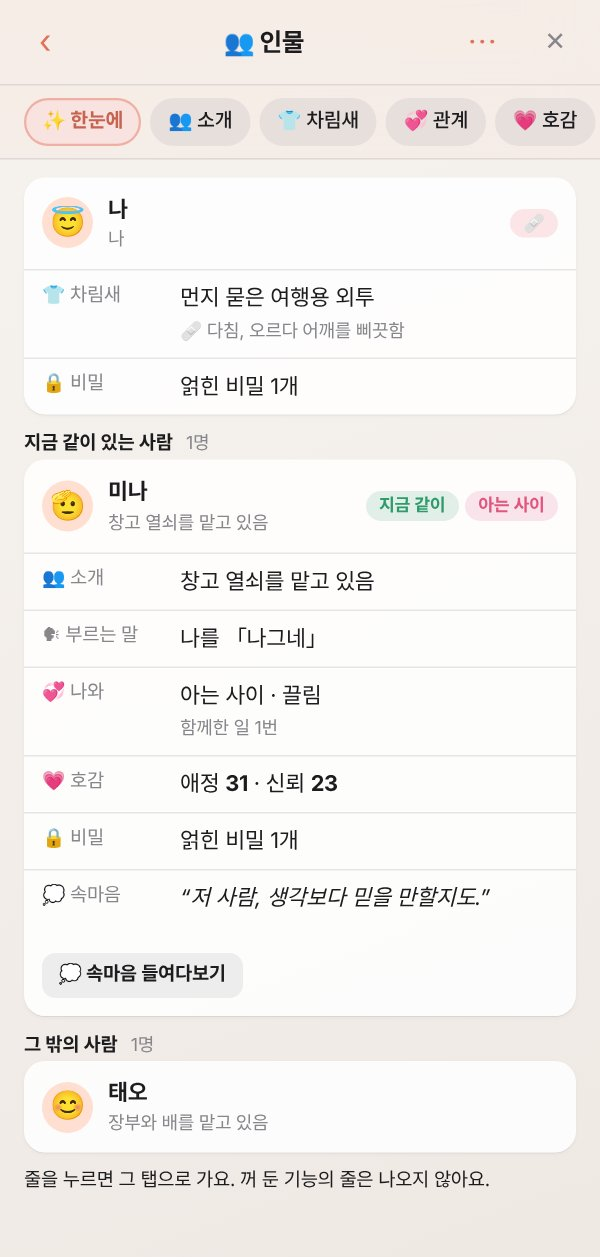
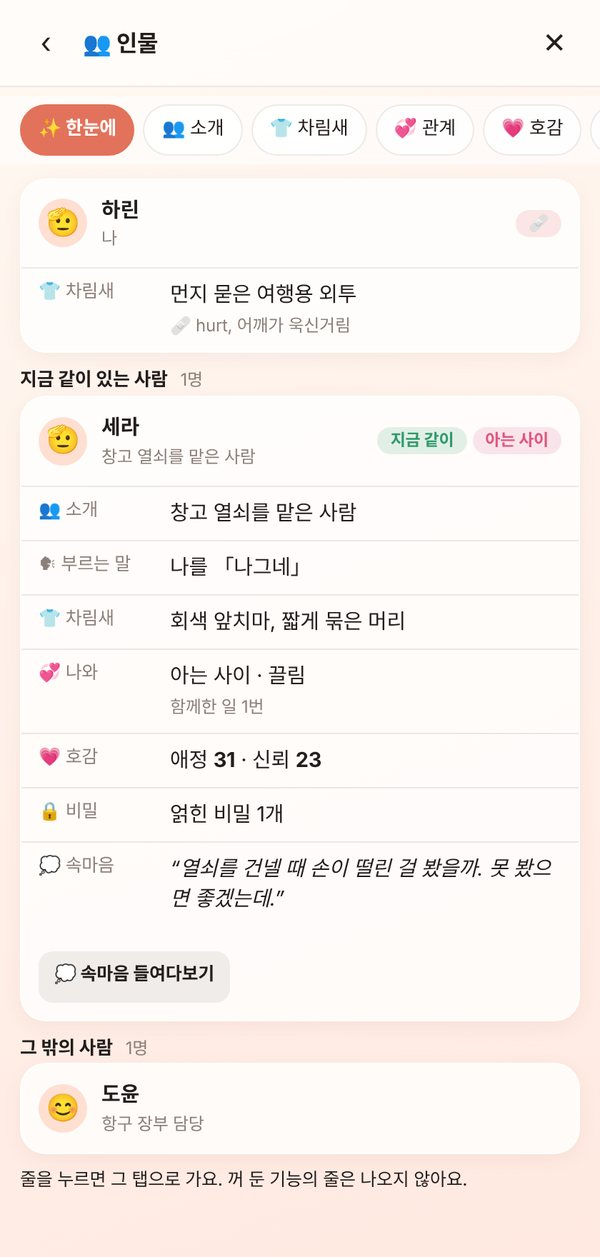
되돌림: CSS 정리 · README 캡처 다시 찍은 것
Claude-Session: https://claude.ai/code/session_01GwsfwdMgNNbz4buD2Lfpie

diff --git a/phone.css b/phone.css
@@ -1,13 +1,14 @@
 /* Meatball — the phone. Fetched the first time it is opened. Every selector starts with .mb4-. */
 .mb4-phone {
-      --a: #e2725b; --a-soft: rgba(226, 114, 91, .14);
+    --bg1: #fff8f1; --bg2: #ffe9e1; --card: rgba(255, 255, 255, .78); --line: rgba(70, 45, 35, .1);
+    --fg: #231d1b; --sub: #8c7f79; --a: #e2725b; --a-soft: rgba(226, 114, 91, .14);
     --good: #2f9a6a; --bad: #e5484d; --mid: #d98a1f; --love: #e0567f;
     display: none; position: fixed; z-index: 4000; top: 0; bottom: 0; right: 0; width: 420px; max-width: 100vw;
     flex-direction: column; overflow: hidden;
     color: var(--fg); background: linear-gradient(160deg, var(--bg1) 0%, var(--bg2) 100%);
     border-left: 1px solid var(--line); box-shadow: -10px 0 40px rgba(0, 0, 0, .22);
     font-family: -apple-system, 'Apple SD Gothic Neo', 'Pretendard', 'Noto Sans KR', 'Malgun Gothic', system-ui, sans-serif;
-     line-height: 1.5;  text-align: left;
+    font-size: 14.5px; line-height: 1.5; letter-spacing: -.01em; text-align: left;
 }
 .mb4-phone.mb4-left { right: auto; left: 0; border-left: 0; border-right: 1px solid var(--line); box-shadow: 10px 0 40px rgba(0, 0, 0, .22); }
 .mb4-phone.mb4-open { display: flex; }
@@ -19,23 +20,23 @@
 .mb4-phone h3, .mb4-phone h5, .mb4-phone p { margin: 0; color: inherit; }
 
 /* top bar: a status bar at home, a title bar inside an app */
-.mb4-top { display: flex; align-items: center; gap: 4px; flex: none; }
-.mb4-title { flex: 1;   overflow-wrap: anywhere; }
-.mb4-phone:not(.mb4-at-home) .mb4-top { background: rgba(255, 255, 255, .6);  backdrop-filter: blur(10px); }
+.mb4-top { display: flex; align-items: center; gap: 4px; flex: none; padding: 8px 10px; min-height: 52px; }
+.mb4-title { flex: 1; font-weight: 700; font-size: 16px; overflow-wrap: anywhere; }
+.mb4-phone:not(.mb4-at-home) .mb4-top { background: rgba(255, 255, 255, .6); border-bottom: 1px solid var(--line); backdrop-filter: blur(10px); }
 .mb4-at-home [data-back] { display: none; }
 .mb4-at-home .mb4-title { padding-left: 8px; font-size: 14px; }
 .mb4-status { display: none; align-items: center; gap: 6px; margin-right: 4px; }
 .mb4-at-home .mb4-status { display: inline-flex; }
 .mb4-sig { width: 16px; height: 10px; background: linear-gradient(90deg, var(--fg) 0 3px, transparent 3px 4px, var(--fg) 4px 7px, transparent 7px 8px, var(--fg) 8px 11px, transparent 11px 12px, var(--fg) 12px 15px, transparent 15px); -webkit-mask: linear-gradient(to top right, #000 50%, transparent 50%); mask: linear-gradient(to top right, #000 50%, transparent 50%); }
 .mb4-batt { width: 22px; height: 11px; border: 1.5px solid var(--fg); border-radius: 3.5px; background: linear-gradient(90deg, var(--fg) 78%, transparent 78%) content-box; padding: 1px; }
-.mb4-ico { width: 38px; height: 38px; flex: none; border: 0; border-radius: 50%; background: transparent;  line-height: 1; display: grid; place-items: center; }
-
-.mb4-body { flex: 1; overflow-y: auto;  overscroll-behavior: contain; -webkit-overflow-scrolling: touch; scrollbar-width: thin; }
+.mb4-ico { width: 38px; height: 38px; flex: none; border: 0; border-radius: 50%; background: transparent; font-size: 20px; line-height: 1; display: grid; place-items: center; }
+.mb4-ico:hover, .mb4-ico:focus-visible { background: rgba(70, 45, 35, .08); }
+.mb4-body { flex: 1; overflow-y: auto; padding: 6px 14px 22px; overscroll-behavior: contain; -webkit-overflow-scrolling: touch; scrollbar-width: thin; }
 
 /* cards */
-.mb4-card { display: block; margin: 0 0 12px;  border-radius: 18px; background: var(--card); border: 1px solid rgba(255, 255, 255, .7); box-shadow: 0 1px 2px rgba(120, 70, 50, .06), 0 6px 18px rgba(120, 70, 50, .06); overflow-wrap: anywhere; }
+.mb4-card { display: block; margin: 0 0 12px; padding: 13px 14px; border-radius: 18px; background: var(--card); border: 1px solid rgba(255, 255, 255, .7); box-shadow: 0 1px 2px rgba(120, 70, 50, .06), 0 6px 18px rgba(120, 70, 50, .06); overflow-wrap: anywhere; }
 .mb4-card.warn { background: rgba(255, 238, 205, .9); }
-.mb4-card-h { display: flex; align-items: center; gap: 6px; }
+.mb4-card-h { display: flex; align-items: center; gap: 6px; margin: 0 0 8px; font-size: 12.5px; font-weight: 700; color: var(--sub); }
 .mb4-chev { margin-left: auto; font-size: 17px; line-height: 1; color: var(--sub); }
 .mb4-widget, [data-go].mb4-hero { cursor: pointer; }
 .mb4-widget:hover { box-shadow: 0 1px 2px rgba(120, 70, 50, .08), 0 8px 22px rgba(120, 70, 50, .12); }
@@ -44,11 +45,11 @@ details.mb4-card > summary::after { content: '›'; margin-left: auto; color: va
 details.mb4-card[open] > summary::after { transform: rotate(90deg); }
 details.mb4-card[open] > summary { margin-bottom: 10px; }
 details.mb4-card > summary::-webkit-details-marker { display: none; }
-
+.mb4-sec { margin: 18px 4px 8px; font-size: 13px; font-weight: 700; }
 .mb4-sec small { margin-left: 6px; }
 .mb4-lead { margin: 0 2px 10px; color: var(--sub); font-size: 13px; }
 .mb4-hint { margin: 8px 2px 0; font-size: 12.5px; color: var(--sub); overflow-wrap: anywhere; }
-.mb4-banner { margin: 0 0 12px; padding: 10px 14px;  background: rgba(255, 224, 170, .8); font-size: 13px; }
+.mb4-banner { margin: 0 0 12px; padding: 10px 14px; border-radius: 14px; background: rgba(255, 224, 170, .8); font-size: 13px; }
 .mb4-banner.soft { background: rgba(255, 255, 255, .55); color: var(--sub); }
 .mb4-big { font-size: 17px; font-weight: 700; }
 .mb4-center { text-align: center; }
@@ -59,9 +60,9 @@ details.mb4-card > summary::-webkit-details-marker { display: none; }
 .mb4-catch b { font-size: 15px; }
 
 /* hero */
-.mb4-hero { margin: 0 0 12px; padding: 18px 16px; }
+.mb4-hero { margin: 0 0 12px; padding: 18px 16px; border-radius: 22px; background: rgba(255, 255, 255, .62); border: 1px solid rgba(255, 255, 255, .8); box-shadow: 0 8px 26px rgba(120, 70, 50, .08); }
 .mb4-hero > small { display: block; }
-.mb4-hero-n { font-size: 38px;  line-height: 1.15; letter-spacing: -.03em; }
+.mb4-hero-n { font-size: 38px; font-weight: 300; line-height: 1.15; letter-spacing: -.03em; }
 .mb4-hero-n small { font-size: 15px; }
 .mb4-hero-s { margin-top: 2px; font-weight: 700; font-size: 14px; }
 .mb4-hero-m { margin-top: 6px; color: var(--sub); font-size: 13px; display: flex; flex-wrap: wrap; gap: 4px 8px; }
@@ -72,7 +73,7 @@ details.mb4-card > summary::-webkit-details-marker { display: none; }
 .mb4-grid { display: grid; grid-template-columns: repeat(4, 1fr); gap: 14px 4px; margin: 4px 0 8px; }
 .mb4-tile { display: flex; flex-direction: column; align-items: center; gap: 6px; padding: 2px 0; border: 0; background: transparent; }
 .mb4-tile-name { font-size: 12px; text-align: center; overflow-wrap: anywhere; }
-.mb4-app-ico { display: grid; place-items: center; flex: none; width: 56px; height: 56px; border-radius: 17px; font-size: 27px; background: linear-gradient(150deg, color-mix(in srgb, var(--c) 78%, #fff), var(--c)); }
+.mb4-app-ico { display: grid; place-items: center; flex: none; width: 56px; height: 56px; border-radius: 17px; font-size: 27px; background: linear-gradient(150deg, color-mix(in srgb, var(--c) 78%, #fff), var(--c)); box-shadow: 0 4px 10px color-mix(in srgb, var(--c) 35%, transparent); }
 .mb4-tile:active .mb4-app-ico { transform: scale(.94); }
 
 /* first question */
@@ -101,31 +102,31 @@ details.mb4-card > summary::-webkit-details-marker { display: none; }
 .mb4-item-t { flex: 1; min-width: 0; }
 .mb4-item-t b { font-size: 15px; margin-right: 6px; }
 .mb4-item-t small { display: block; margin-top: 2px; line-height: 1.4; }
-.mb4-get { flex: none; min-width: 58px !important; padding: 6px 12px; border: 0; border-radius: 999px;   font-weight: 700 !important; font-size: 13px !important; }
-
+.mb4-get { flex: none; min-width: 58px !important; padding: 6px 12px; border: 0; border-radius: 999px; background: var(--a); color: #fff !important; font-weight: 700 !important; font-size: 13px !important; }
+.mb4-get.on { background: rgba(70, 45, 35, .09); color: var(--sub) !important; }
 .mb4-get:disabled { opacity: .5; }
-.mb4-badge { display: inline-block; padding: 1px 7px; margin-right: 4px; border-radius: 999px; font-size: 10.5px;   color: var(--sub); white-space: nowrap; vertical-align: 1px; }
+.mb4-badge { display: inline-block; padding: 1px 7px; margin-right: 4px; border-radius: 999px; font-size: 10.5px; font-weight: 700; background: rgba(70, 45, 35, .08); color: var(--sub); white-space: nowrap; vertical-align: 1px; }
 .mb4-badge.zero { background: rgba(47, 154, 106, .15); color: #1f7a52; }
 .mb4-badge.low { background: rgba(58, 142, 230, .14); color: #2468b4; }
 .mb4-badge.tap { background: rgba(124, 92, 255, .14); color: #5a3fd0; }
 
 /* controls */
-.mb4-btn { border: 0;     flex: none; }
+.mb4-btn { min-height: 38px; padding: 7px 15px; border: 0; border-radius: 12px; background: var(--a); color: #fff !important; font-weight: 700 !important; flex: none; }
 .mb4-btn:disabled { opacity: .4; cursor: default; }
-
-.mb4-btn.sm { font-size: 12.5px !important; }
-.mb4-btn.wide { display: block; width: 100%; margin: 0 0 8px; }
+.mb4-btn.ghost { background: rgba(70, 45, 35, .08); color: var(--fg) !important; }
+.mb4-btn.sm { min-height: 30px; padding: 4px 11px; font-size: 12.5px !important; border-radius: 10px; }
+.mb4-btn.wide { display: block; width: 100%; margin: 0 0 8px; min-height: 44px; border-radius: 14px; }
 .mb4-btnrow { display: flex; flex-wrap: wrap; align-items: center; gap: 8px; margin-top: 10px; }
 .mb4-btnrow.tight { margin-top: 0; gap: 4px; }
 .mb4-btnrow > .mb4-input { flex: 1; margin: 0; min-width: 0; }
-.mb4-link { border: 0; background: none; padding: 0; text-align: left; flex: 1; }
-.mb4-x { flex: none; width: 22px; height: 22px; padding: 0; margin-left: 4px; border: 0; border-radius: 50%;  font-size: 10px !important; line-height: 1; color: var(--sub) !important; }
+.mb4-link { border: 0; background: none; padding: 0; text-align: left; flex: 1; color: var(--a) !important; }
+.mb4-x { flex: none; width: 22px; height: 22px; padding: 0; margin-left: 4px; border: 0; border-radius: 50%; background: rgba(70, 45, 35, .08); font-size: 10px !important; line-height: 1; color: var(--sub) !important; }
 .mb4-label { display: block; font-size: 12.5px; font-weight: 700; color: var(--sub); margin-bottom: 10px; }
 .mb4-input { display: block; width: 100%; margin: 5px 0 0; padding: 9px 11px; border-radius: 11px; border: 1px solid var(--line); background: rgba(255, 255, 255, .85); color: var(--fg); font-weight: 400; outline: 0; box-shadow: none; }
 .mb4-input:focus { border-color: var(--a); }
 /* the host theme styles every input, select and textarea on the page: ours keep the phone's own look */
-.mb4-phone .mb4-input { box-shadow: none !important; font-size: 14.5px !important; }
-
+.mb4-phone .mb4-input { background: rgba(255, 255, 255, .85) !important; color: var(--fg) !important; border: 1px solid var(--line) !important; border-radius: 11px !important; box-shadow: none !important; font-size: 14.5px !important; }
+.mb4-phone .mb4-input:focus { border-color: var(--a) !important; }
 .mb4-phone .mb4-input::placeholder { color: var(--sub); opacity: .8; }
 .mb4-phone select.mb4-input { background-image: none !important; appearance: auto; }
 .mb4-input.mb4-short { flex: 0 0 76px; width: 76px; }
@@ -137,23 +138,23 @@ textarea.mb4-input { resize: vertical; min-height: 44px; }
 .mb4-sw > span { display: flex; flex-direction: column; min-width: 0; }
 .mb4-sw b { font-weight: 600; }
 .mb4-sw input { position: absolute; opacity: 0; pointer-events: none; }
-.mb4-sw i { flex: none; width: 44px; height: 26px; border-radius: 999px;  position: relative; transition: background .15s; }
+.mb4-sw i { flex: none; width: 44px; height: 26px; border-radius: 999px; background: rgba(70, 45, 35, .16); position: relative; transition: background .15s; }
 .mb4-sw i::after { content: ''; position: absolute; top: 3px; left: 3px; width: 20px; height: 20px; border-radius: 50%; background: #fff; box-shadow: 0 1px 3px rgba(0, 0, 0, .25); transition: transform .15s; }
-
+.mb4-sw input:checked + i { background: var(--good); }
 .mb4-sw input:checked + i::after { transform: translateX(18px); }
 .mb4-sw input:disabled + i { opacity: .4; }
 .mb4-pre { margin: 8px 0 0; padding: 10px; border-radius: 10px; background: rgba(70, 45, 35, .06); font: 12px/1.5 ui-monospace, Menlo, Consolas, monospace; white-space: pre-wrap; overflow-wrap: anywhere; max-height: 260px; overflow-y: auto; }
-.mb4-opt { border-radius: 999px;  font-size: 13px !important; }
+.mb4-opt { padding: 6px 12px; border: 1px solid var(--line); border-radius: 999px; background: rgba(255, 255, 255, .8); font-size: 13px !important; }
 .mb4-opt.on { background: var(--a); border-color: var(--a); color: #fff !important; font-weight: 700 !important; }
 
 /* small pieces */
-.mb4-row { display: flex; align-items: center; gap: 10px; }
+.mb4-row { display: flex; align-items: center; gap: 10px; padding: 5px 0; }
 .mb4-row + .mb4-row { border-top: 1px solid var(--line); }
 .mb4-row-k { flex: none; min-width: 4.8em; color: var(--sub); font-size: 13px; }
 .mb4-row-v { flex: 1; min-width: 0; overflow-wrap: anywhere; }
 .mb4-chips { display: flex; flex-wrap: wrap; gap: 6px; }
 .mb4-chip { display: inline-flex; align-items: center; padding: 3px 10px; border-radius: 999px; background: rgba(70, 45, 35, .07); font-size: 13px; overflow-wrap: anywhere; }
-.mb4-pill { display: inline-block; flex: none; padding: 1px 9px; border-radius: 999px; font-size: 11.5px;  background: var(--a-soft); color: var(--a); white-space: nowrap; }
+.mb4-pill { display: inline-block; flex: none; padding: 1px 9px; border-radius: 999px; font-size: 11.5px; font-weight: 700; background: var(--a-soft); color: var(--a); white-space: nowrap; }
 .mb4-pill.good { background: rgba(47, 154, 106, .14); color: var(--good); }
 .mb4-pill.bad { background: rgba(229, 72, 77, .13); color: var(--bad); }
 .mb4-meter { flex: 1; min-width: 40px; height: 7px; border-radius: 999px; background: rgba(70, 45, 35, .1); overflow: hidden; display: block; }
@@ -230,13 +231,13 @@ textarea.mb4-input { resize: vertical; min-height: 44px; }
 .mb4-hr { border: 0; border-top: 1px solid var(--line); margin: 8px 0; }
 
 /* ── 4.1: three shelves, entry rows, inner tabs, person cards ── */
-.mb4-shelves { gap: 6px;    background: rgba(255, 255, 255, .5); position: sticky;  z-index: 3; backdrop-filter: blur(8px); }
-.mb4-shelf { display: flex; align-items: center; justify-content: center; gap: 5px;  border: 0; border-radius: 12px; background: transparent; font-size: 14px !important; color: var(--sub) !important; }
+.mb4-shelves { display: grid; grid-template-columns: repeat(3, 1fr); gap: 6px; margin: 0 0 8px; padding: 4px; border-radius: 16px; background: rgba(255, 255, 255, .5); position: sticky; top: -6px; z-index: 3; backdrop-filter: blur(8px); }
+.mb4-shelf { display: flex; align-items: center; justify-content: center; gap: 5px; padding: 9px 4px; border: 0; border-radius: 12px; background: transparent; font-size: 14px !important; color: var(--sub) !important; }
 .mb4-shelf.on { background: #fff; color: var(--fg) !important; box-shadow: 0 2px 8px rgba(120, 70, 50, .12); }
-.mb4-shelf small { min-width: 18px; padding: 0 5px; border-radius: 999px;  font-size: 11px !important; line-height: 18px; }
+.mb4-shelf small { min-width: 18px; padding: 0 5px; border-radius: 999px; background: rgba(70, 45, 35, .1); font-size: 11px !important; line-height: 18px; }
 .mb4-shelf.on small { background: var(--a); color: #fff !important; }
 .mb4-ents { border-radius: 18px; background: var(--card); border: 1px solid rgba(255, 255, 255, .7); box-shadow: 0 6px 18px rgba(120, 70, 50, .06); margin: 0 0 12px; overflow: hidden; }
-.mb4-ent { display: flex; align-items: center; gap: 12px;  cursor: pointer; }
+.mb4-ent { display: flex; align-items: center; gap: 12px; padding: 11px 12px; cursor: pointer; }
 .mb4-ent + .mb4-ent { border-top: 1px solid var(--line); }
 .mb4-ent:active { background: rgba(0, 0, 0, .03); }
 .mb4-ent .mb4-app-ico { width: 44px; height: 44px; border-radius: 14px; font-size: 21px; }
@@ -250,13 +251,13 @@ textarea.mb4-input { resize: vertical; min-height: 44px; }
 .mb4-ent-parts i { font-style: normal; filter: grayscale(1); opacity: .3; }
 .mb4-ent-parts i.on { filter: none; opacity: 1; }
 .mb4-ent .mb4-chev { flex: none; color: var(--sub); }
-.mb4-load { display: flex; justify-content: space-between; gap: 8px; padding: 10px 14px; border-radius: 14px;  font-size: 12.5px; color: var(--sub); cursor: pointer; }
-.mb4-tabs { display: flex;  overflow-x: auto;   position: sticky;  z-index: 3; background: color-mix(in srgb, var(--card) 70%, transparent); backdrop-filter: blur(8px); scrollbar-width: none; }
+.mb4-load { display: flex; justify-content: space-between; gap: 8px; padding: 10px 14px; border-radius: 14px; background: rgba(255, 255, 255, .5); font-size: 12.5px; color: var(--sub); cursor: pointer; }
+.mb4-tabs { display: flex; gap: 6px; overflow-x: auto; margin: 0 -14px 10px; padding: 6px 14px; position: sticky; top: -6px; z-index: 3; background: color-mix(in srgb, var(--card) 70%, transparent); backdrop-filter: blur(8px); scrollbar-width: none; }
 .mb4-tabs::-webkit-scrollbar { display: none; }
-.mb4-tab { flex: none;   border-radius: 999px;  font-size: 13px !important; white-space: nowrap; }
+.mb4-tab { flex: none; padding: 7px 12px; border: 1px solid var(--line); border-radius: 999px; background: rgba(255, 255, 255, .8); font-size: 13px !important; white-space: nowrap; }
 .mb4-tab.on { background: var(--a); border-color: var(--a); color: #fff !important; font-weight: 700 !important; }
-.mb4-tab.off:not(.on) { border-style: dashed; }
-.mb4-tabfoot { display: flex; align-items: center; justify-content: flex-end; gap: 8px; margin: 14px 0 0; padding-top: 10px; }
+.mb4-tab.off:not(.on) { opacity: .5; border-style: dashed; }
+.mb4-tabfoot { display: flex; align-items: center; justify-content: flex-end; gap: 8px; margin: 14px 0 0; padding-top: 10px; border-top: 1px dashed var(--line); }
 .mb4-tabfoot .mb4-link { flex: none; color: var(--sub) !important; font-size: 12.5px !important; }
 .mb4-offcard { display: flex; flex-direction: column; align-items: center; gap: 8px; text-align: center; padding: 26px 18px; border-radius: 20px; background: var(--card); }
 .mb4-offcard .mb4-app-ico { filter: grayscale(.6); }
@@ -283,7 +284,7 @@ textarea.mb4-input { resize: vertical; min-height: 44px; }
 .mb4-pill.love { background: color-mix(in srgb, var(--love) 16%, #fff); color: var(--love) !important; }
 .mb4-sum small { color: var(--sub); }
 .mb4-sum-t { margin: 4px 0 10px; font-size: 16px; line-height: 1.5; font-weight: 600; }
-.mb4-tip { margin: 0 0 10px; padding: 9px 12px;   font-size: 12.5px; line-height: 1.45; color: var(--fg); }
+.mb4-tip { margin: 0 0 10px; padding: 9px 12px; border-radius: 12px; background: rgba(255, 236, 170, .45); font-size: 12.5px; line-height: 1.45; color: var(--fg); }
 
 /* 🎨 looks */
 .mb4-walls { display: grid; grid-template-columns: repeat(4, 1fr); gap: 8px; }
@@ -297,7 +298,7 @@ textarea.mb4-input { resize: vertical; min-height: 44px; }
 .mb4-sticky span { flex: 1; }
 .mb4-sticky .mb4-x { color: #8a7420; }
 .mb4-edcard > summary { cursor: pointer; font-weight: 700; }
-.mb4-edrow { padding: 8px 0; }
+.mb4-edrow { padding: 8px 0; border-top: 1px solid var(--line); }
 .mb4-edrow small { display: block; margin-bottom: 4px; }
 .mb4-edrow textarea { resize: vertical; min-height: 34px; }
 .mb4-icoin { flex: 0 0 52px !important; width: 52px !important; text-align: center; }
